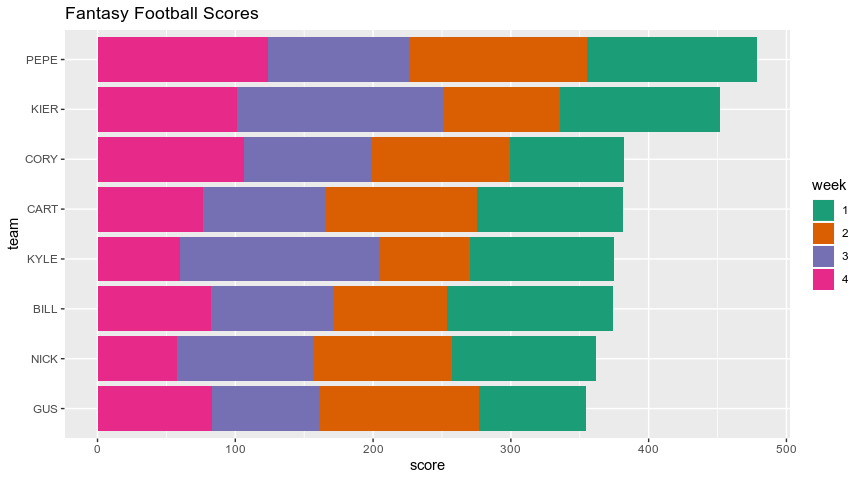
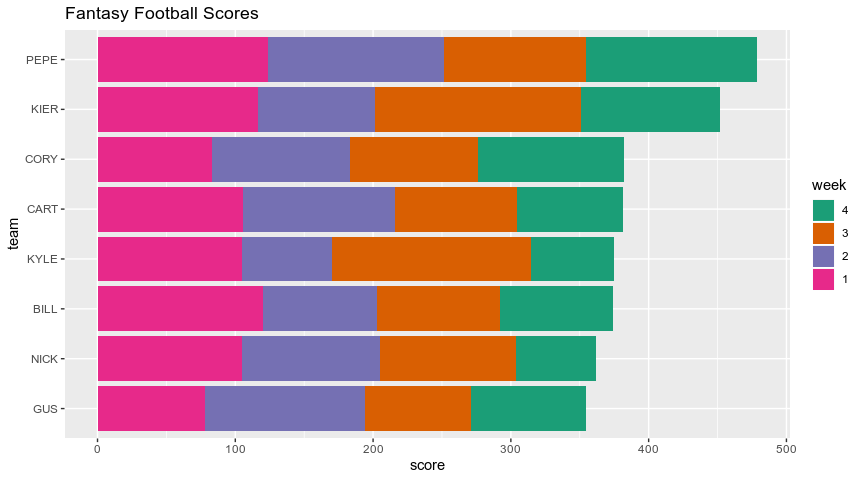
Reverse example week factor in README

diff --git a/README.md b/README.md
@@ -44,7 +44,7 @@ teams <- fantasy_members(lid) %>%
 
 left_join(scores, teams) %>%
   filter(score != 0) %>% 
-  mutate(week = as_factor(week)) %>% 
+  mutate(week = fct_rev(as_factor(week))) %>% 
   ggplot(aes(x = reorder(abbrev, score), y = score)) +
   geom_col(aes(fill = week)) +
   scale_fill_brewer(palette = "Dark2") +
